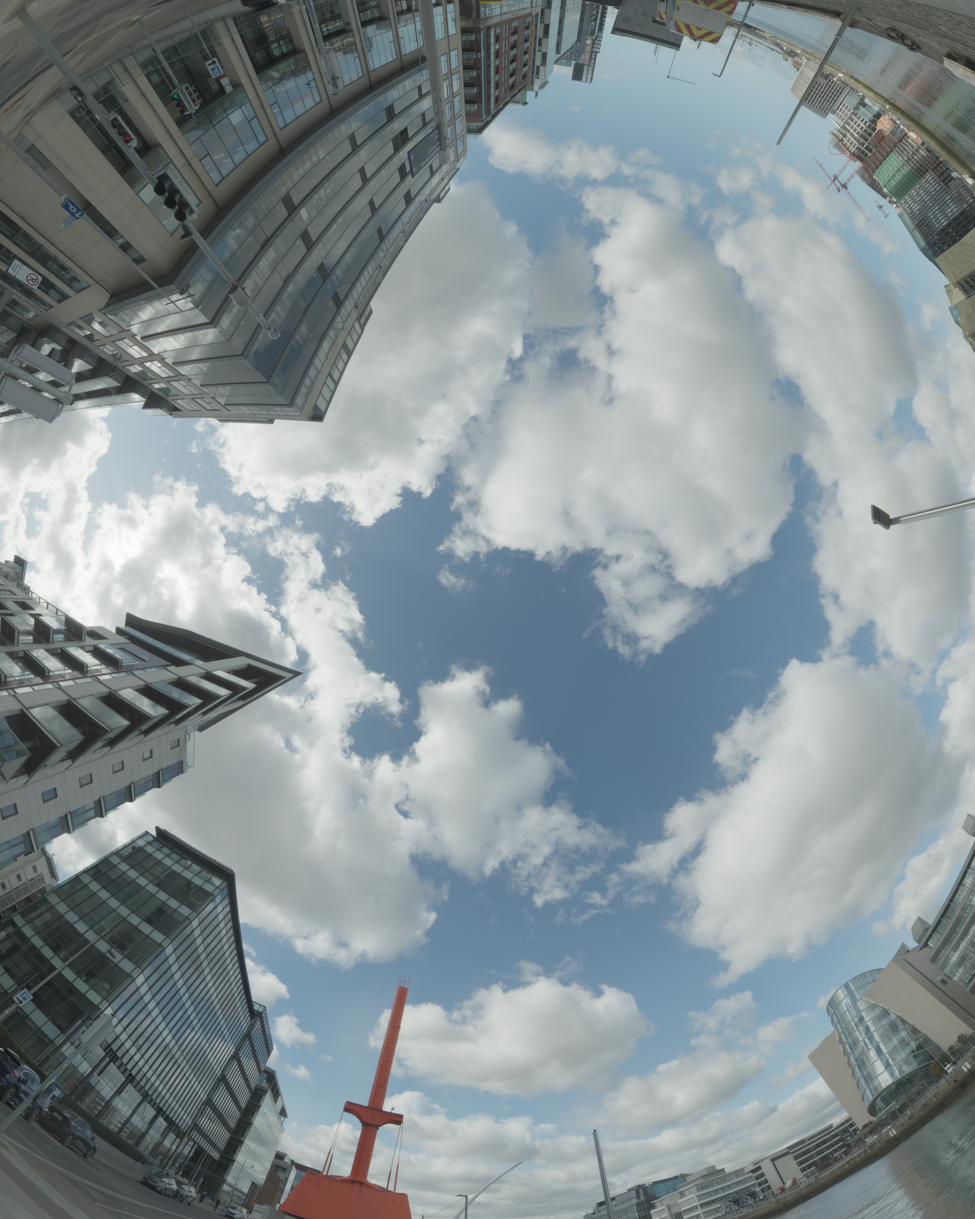
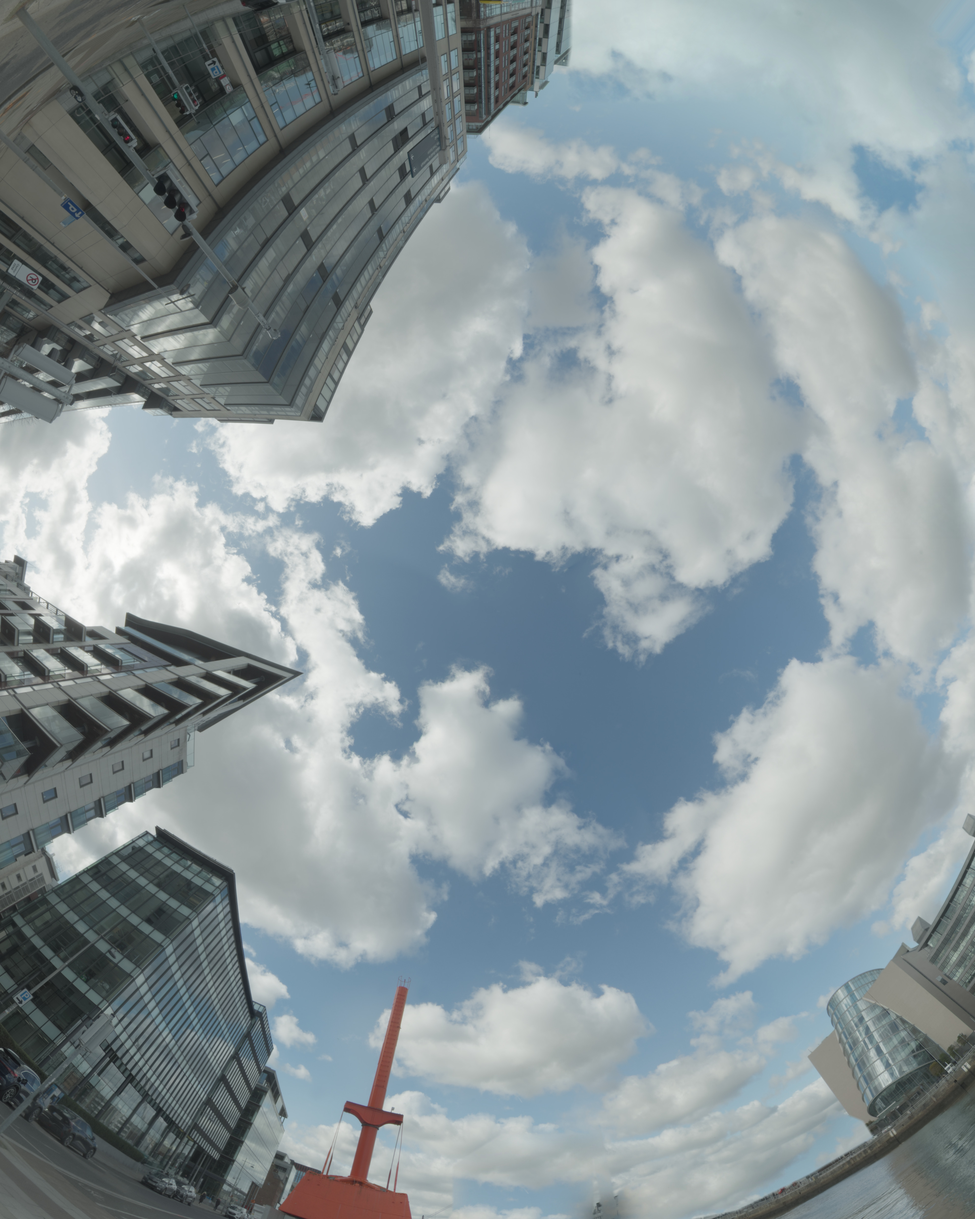
Lab: climb polariser round 1
Claude-Session: https://claude.ai/code/session_01RqENhngNCzDFmJWDZueXGV

diff --git a/src/app/lab/polariser/polariserEngine.js b/src/app/lab/polariser/polariserEngine.js
@@ -27,7 +27,11 @@ import { createFilm, FILM_PRESETS } from "../_kit/film";
 // left, the red mast stands up from the foot of the print and a second glass
 // block comes in from the bottom right, and the dark band 90° from the sun
 // arcs across the open sky in the middle of that canyon. The roll keeps the
-// quay's chevron hoarding off the print, so the mast is its only warm colour.
+// quay's chevron hoarding off the print, and the orphaned fragments at the
+// edges (the construction block and red tower crane top right, lamp arms, the
+// far quay's office row) are filled with the plate's own sky
+// (tools/depth/bakes/polariser/clean.py), so each edge carries one whole
+// tower or open sky and the mast is the print's only warm colour.
 // Each pixel's view direction is rebuilt from the camera through the same
 // projection, so γ is exact.
 //

diff --git a/tools/depth/bakes/polariser/clean.py b/tools/depth/bakes/polariser/clean.py
@@ -1,0 +1,179 @@
+# Clean the frame edges of the worm's-eye plate, after assets.py:
+#   python3 -I clean.py plate.jpg aux.png out_plate.jpg out_aux.png [mask.png]
+# (MASK_ONLY=1 writes the mask and stops.)
+# Each edge of the print should carry one whole converging tower or open sky.
+# The plate keeps the big apartment block (top left), the pointed tower and the
+# glass block (left), the red lightship mast (foot of the print, the one warm
+# accent) and the convention centre's glass drum on its quay (bottom right).
+# Everything else that reaches into the frame is an orphaned fragment and is
+# replaced by sky:
+#  - top right: the construction block with its green and orange cladding, the
+#    red tower crane (a second warm accent beside the mast), the office block
+#    and the quay wall behind them, the lamp-post arms and the aerial; plus,
+#    top centre, the dark stair block behind the white tower and the lamp
+#    heads past it;
+#  - right edge: the lamp arm halfway down;
+#  - bottom: the harp bridge's tip, the lamp pole and the low office row on the
+#    far quay, left of the drum (the quay wall and river under the drum stay,
+#    so the drum stands on its own ground).
+# How each is filled:
+#  - the lamp arm (inside cloud): LaMa (tools/depth/fill.py).
+#  - top right: LaMa invents buildings and a dark rim on a hole this big that
+#    runs off the plate, so it is a transplant instead. The plate is
+#    stereographic about the zenith, so turning it about its centre carries sky
+#    to sky at the same angle from the zenith. The open right rim (-24 to +22
+#    deg, image angle) is turned into the hole (-82 to -28 deg); radii are
+#    scaled by 0.65 so the corner (below the plate's last real sky) reads
+#    clouds squeezed toward the horizon, never past the source's own sky.
+#  - bottom: the cloud bands there run parallel to the rim, so the sky 360 px
+#    further in along the same radius is carried out over the office row.
+#  Both transplants are matched to the surrounding sky in low frequencies (the
+#  difference on a sky-only ring, push-pulled in) and feathered at the seam.
+# The aux sky channel is set to 1 over the fill so the new sky polarises like
+# the rest; the glass channels are untouched (both faces are bottom left).
+import os, sys
+import numpy as np, cv2
+from PIL import Image
+sys.path.insert(0, os.path.join(os.path.dirname(os.path.abspath(__file__)), '..', '..'))
+import fill  # noqa: E402
+kit = fill.kit
+
+src, srcaux, dst, dstaux = sys.argv[1:5]
+maskout = sys.argv[5] if len(sys.argv) > 5 else ''
+img = np.asarray(Image.open(src).convert('RGB')).astype(np.float32) / 255
+aux = np.asarray(Image.open(srcaux).convert('RGB')).astype(np.float32) / 255
+H, W = img.shape[:2]
+assert (W, H) == (3840, 4800), (W, H)
+
+
+def poly(pts):
+    m = np.zeros((H, W), np.uint8)
+    cv2.fillPoly(m, [np.array(pts, np.int32)], 1)
+    return m > 0
+
+
+# ------------------------------------------------------------------ the hole
+nonsky = aux[..., 0] < 0.95
+# Top right and the right rim down past the lamp arm (not the office block
+# behind the drum, whose top reaches the rim at y 3200), past the white tower.
+R_top = poly([(2262, 0), (W, 0), (W, 2800), (3300, 2800), (2900, 2400), (2600, 1200), (2262, 430)])
+# Bottom: left of the drum's beige wall and above the far quay's railing,
+# right of the lightship.
+R_bot = poly([(1700, 4250), (3150, 4250), (3270, 4370), (3395, 4420), (3430, 4475), (3200, 4610), (2900, 4760), (2700, H), (1700, H)])
+hole = nonsky & (R_top | R_bot)
+# Things against sky that the depth-made sky channel calls sky: the tower
+# cranes (red jib, white mast), the right-edge lamp arm, the lamp heads, aerial
+# and stair block past the white tower, the bridge's tip, cables and the pole.
+cranes = poly([(3180, 500), (3540, 500), (3540, 890), (3180, 890)])
+arm = poly([(3420, 1930), (W, 1930), (W, 2110), (3420, 2110)])
+lamps = poly([(2262, 0), (3000, 0), (3000, 380), (2245, 380), (2245, 270), (2258, 180)])
+bridge = poly([(1980, 4480), (2320, 4480), (2320, H), (1800, H), (1800, 4600)])
+hole |= cranes | arm | lamps | bridge
+hole = kit.dilate(hole, 10) & (R_top | R_bot | cranes | arm | lamps | kit.dilate(bridge, 20))
+# Keep the drum and its quay intact even after the halo grows.
+hole &= ~poly([(3185, 4140), (W, 3600), (W, H), (2950, H), (3200, 4625), (3440, 4480)])
+# Drop specks the halo did not join (noise in the sky channel).
+n, cc, st, _ = cv2.connectedComponentsWithStats(hole.astype(np.uint8), 8)
+for i in range(1, n):
+    if st[i, cv2.CC_STAT_AREA] < 400:
+        hole[cc == i] = False
+print('hole', round(hole.mean() * 100, 2), '% of the plate')
+if maskout:
+    Image.fromarray((hole * 255).astype(np.uint8)).save(maskout)
+    if os.environ.get('MASK_ONLY'):
+        sys.exit()
+
+n, cc, st, _ = cv2.connectedComponentsWithStats(hole.astype(np.uint8), 8)
+top_r = cc == cc[100, 3700]
+bot = hole & (np.arange(H)[:, None] > 4200)
+small = hole & ~top_r & ~bot
+assert top_r.any() and bot.any()
+
+# ------------------------------------------------------------------ LaMa: the lamp arm
+lama = fill.Lama(threads=4)
+img = fill.fill(img, small, 'lama', lama=lama, grain=True, feather=8)
+print('lama calls', lama.calls, 'secs', round(lama.secs, 1))
+
+# ------------------------------------------------------------------ transplants
+cx, cy = W / 2, H / 2
+yy, xx = np.mgrid[0:H, 0:W].astype(np.float32)
+ang = np.degrees(np.arctan2(yy - cy, xx - cx))
+rad = np.hypot(xx - cx, yy - cy)
+sky_ok = ((aux[..., 0] > 0.9) & ~hole) | small  # the arm is sky again now
+
+
+def ray_extent(angles, ok):
+    """Per angle, the radius out to which the ray from r=600 stays on ok pixels."""
+    out = np.zeros(len(angles), np.float32)
+    rs = np.arange(600, 3200, 2, dtype=np.float32)
+    for i, a in enumerate(angles):
+        t = np.radians(a)
+        x = (cx + rs * np.cos(t)).astype(int)
+        y = (cy + rs * np.sin(t)).astype(int)
+        inside = (x >= 0) & (x < W) & (y >= 0) & (y < H)
+        good = np.zeros_like(inside)
+        good[inside] = ok[y[inside], x[inside]]
+        bad = np.nonzero(~good)[0]
+        out[i] = rs[-1] if not len(bad) else rs[max(bad[0] - 1, 0)]
+    return out
+
+
+def transplant(base, region, pad, src_of, feather):
+    """Fill region (+pad) from base at the source points src_of(angle, radius),
+    matched in low frequencies to the sky ring around it, feathered outward."""
+    regx = kit.dilate(region, pad)
+    ys, xs = np.nonzero(regx)
+    y0, y1, x0, x1 = ys.min(), ys.max() + 1, xs.min(), xs.max() + 1
+    m = regx[y0:y1, x0:x1]
+    sa, sr = src_of(ang[y0:y1, x0:x1], rad[y0:y1, x0:x1])
+    sx = (cx + sr * np.cos(np.radians(sa))).astype(np.float32)
+    sy = (cy + sr * np.sin(np.radians(sa))).astype(np.float32)
+    f = base.copy()
+    moved = cv2.remap(base, sx, sy, cv2.INTER_LINEAR, borderMode=cv2.BORDER_REFLECT)
+    f[y0:y1, x0:x1] = np.where(m[..., None], moved, base[y0:y1, x0:x1])
+    ring = kit.dilate(region, 60) & ~region & ~hole & (aux[..., 0] > 0.9)
+    w = ring.astype(np.float32)
+    corr = cv2.GaussianBlur(kit.pushpull((base - f) * w[..., None], w), (0, 0), 25)
+    f = np.clip(f + corr, 0, 1)
+    d = cv2.distanceTransform((~region).astype(np.uint8), cv2.DIST_L2, 5)
+    a = np.clip(1 - d / feather, 0, 1)
+    a = (a * a * (3 - 2 * a))[..., None]
+    return base * (1 - a) + f * a
+
+
+# top right: turn the open right rim into it
+A = ang[top_r]
+a0, a1 = float(A.min()), float(A.max())
+S0, S1, K = -24.0, 22.0, 0.65
+abins = np.linspace(a0 - 2, a1 + 2, 400)
+Rs = ray_extent(S0 + (abins - a0) / (a1 - a0) * (S1 - S0), sky_ok) - 40
+Rs = cv2.GaussianBlur(Rs[None], (0, 0), 3)[0]
+print('top right', round(a0, 1), round(a1, 1), 'deg; source sky reach', int(Rs.min()), '-', int(Rs.max()), 'px')
+
+
+def top_src(a, r):
+    return S0 + (a - a0) / (a1 - a0) * (S1 - S0), np.minimum(r * K, np.interp(a, abins, Rs))
+
+
+img = transplant(img, top_r, 80, top_src, 24)
+
+
+# bottom: carry the cloud bands outward along the radius, clear of the drum's
+# beige wall (whose left edge runs radially at 54 deg)
+def bot_src(a, r):
+    return np.maximum(a, 54.6), r - 360
+
+
+img = transplant(img, bot, 30, bot_src, 14)
+
+enc = np.clip(np.round(img * 255), 0, 255).astype(np.uint8)
+Image.fromarray(enc).save(dst, quality=92, subsampling=0, optimize=True)
+
+# ------------------------------------------------------------------ aux: the fill is sky
+a = cv2.GaussianBlur(hole.astype(np.float32), (0, 0), 3)
+a = np.maximum(a, hole)
+aux2 = aux.copy()
+aux2[..., 0] = np.maximum(aux[..., 0], a)
+aux2[..., 1] *= 1 - a
+aux2[..., 2] *= 1 - a
+Image.fromarray(np.clip(np.round(aux2 * 255), 0, 255).astype(np.uint8)).save(dstaux, optimize=True)

diff --git a/tools/depth/bakes/polariser/plate.py b/tools/depth/bakes/polariser/plate.py
@@ -1,5 +1,6 @@
 # Plate order (run from a scratch dir, with this dir on PYTHONPATH):
-#   plate.py 17 89 119 140 -> depth_hr.py on out/plate.jpg -> reproj.py -> assets.py -> hero.py
+#   plate.py 17 89 119 140 -> depth_hr.py on out/plate.jpg -> reproj.py -> assets.py
+#   -> clean.py out/plate.jpg out/aux.png (frame-edge fragments to sky) -> hero.py
 # aux_old.png for reproj.py: git show 39c5ed8:public/lab/polariser/aux.png > aux_old.png
 # HDRI: Poly Haven docklands_01 at 16k, its native maximum (the 8k gave the
 # plate only about 11 px/deg at the frame centre, so facades and window grids
